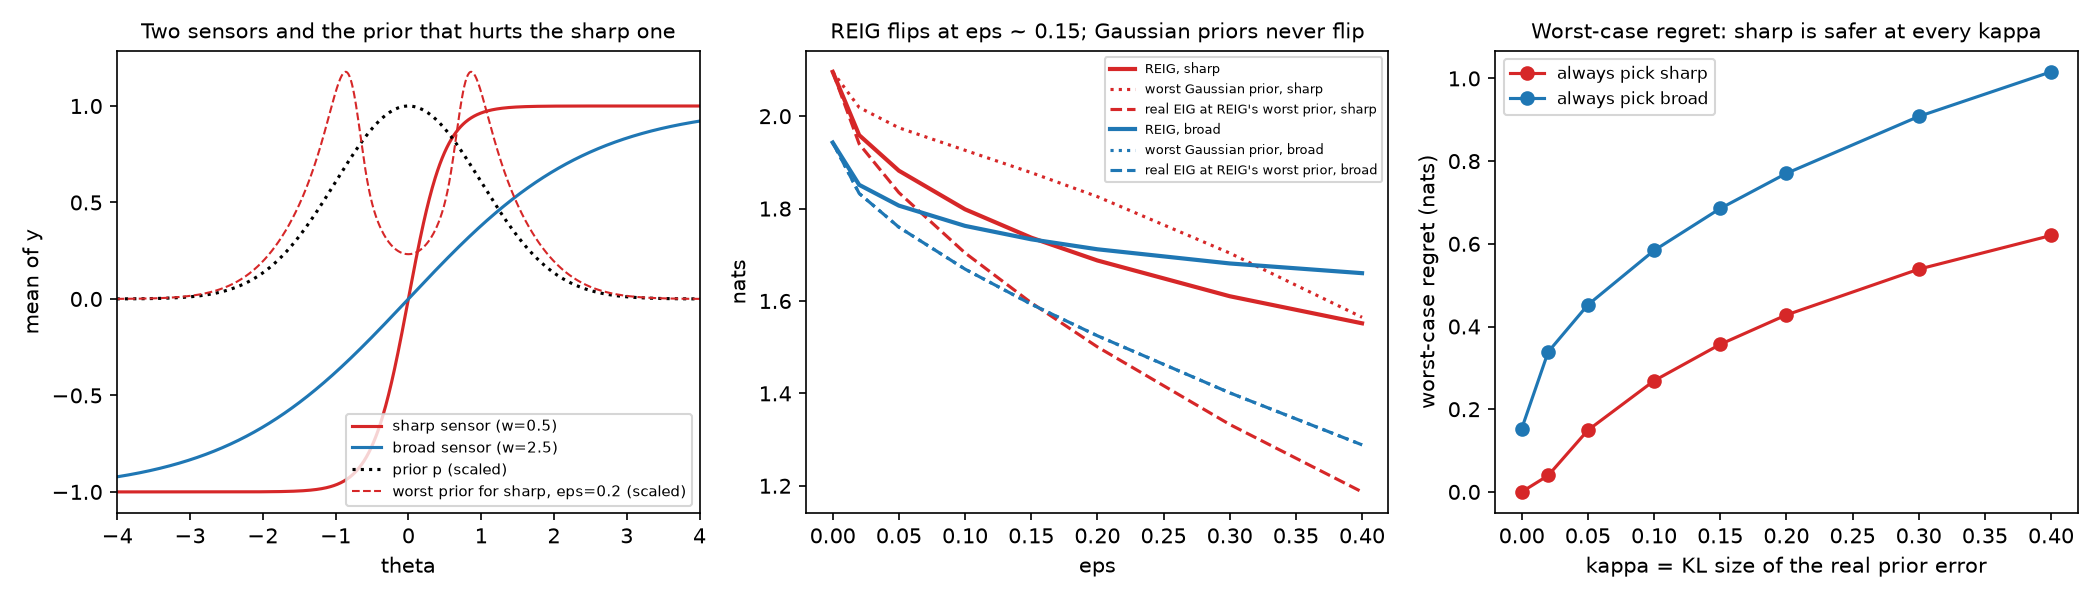
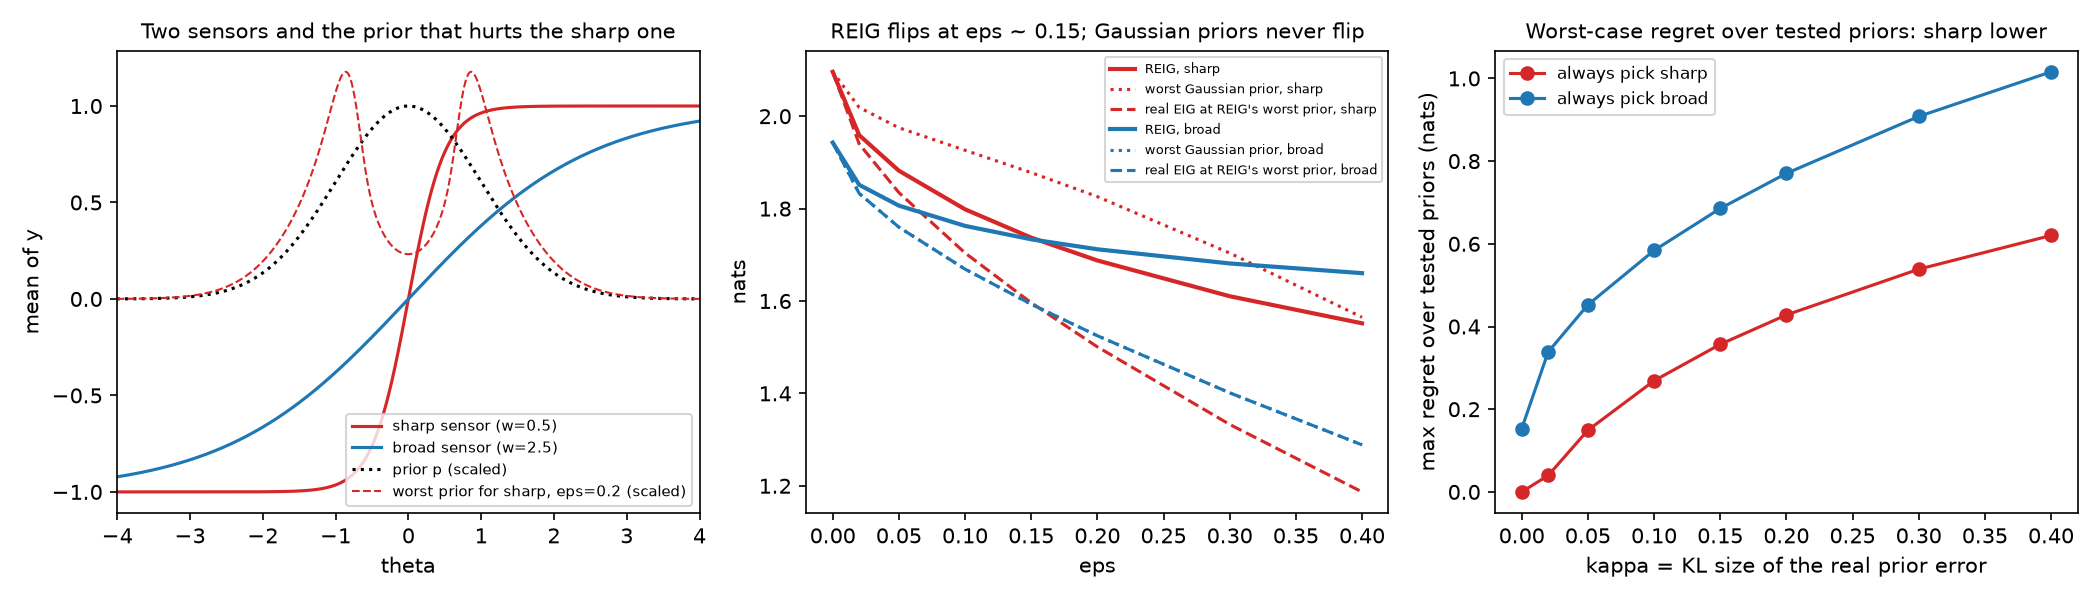
Second review fixes: shared crossing rule, scoped claims, true-worst-case intervals

Changed region(s): [[0.7119, 0.03, 0.9905, 0.09]]

diff --git a/docs/index.html b/docs/index.html
@@ -150,6 +150,10 @@ radius.</p>
       one explanation of a result ("the smallest estimate is the noisiest") was not supported. Both were fixed.</li>
   <li><strong>A refactoring bug.</strong> A sign error appeared only at $\varepsilon=0$. We caught it because a baseline
       error jumped from 0.04 to 1.18 between runs.</li>
+  <li><strong>Claims wider than the evidence.</strong> A second review pointed out that our regret result covered only the
+      priors we tested, that a "bound check" did not by itself establish the true worst case, that "right sensor" in one
+      experiment meant "best under the nominal prior", and that two experiments used different fallback rules for the
+      same method. All four were fixed, and the same review suggested the interval bracketing in Section 5.4.</li>
   <li><strong>A misleading figure.</strong> A plot title claimed "the safer choice depends on $\kappa$." The numbers
       showed the opposite, so the title was changed.</li>
 </ul>
@@ -187,18 +191,35 @@ exactly the curvature term it approximates away.</p>
 (dashed) for each test.</figcaption></figure>
 
 <h3>5.4 ...but it can also catch a danger simple checks miss</h3>
-<p>With the sharp and broad sensors, plain EIG prefers sharp (2.10 vs 1.94 nats). REIG switches to broad at about
-$\varepsilon\approx 0.15$&ndash;$0.2$. If we only consider Gaussian priors (a wrong prior mean or variance), sharp stays
-best at every radius. But REIG's own worst-case prior for the sharp sensor is two-humped, not Gaussian. Evaluating the
-<em>real</em> EIG there, the preference flips between $\varepsilon=0.1$ and $0.2$, in line with REIG.</p>
+<p>With the sharp and broad sensors, plain EIG prefers sharp (2.10 vs 1.94 nats). REIG switches to broad between
+$\varepsilon=0.15$ and $0.2$. If we only consider Gaussian priors (a wrong prior mean or variance), sharp stays best
+at every radius. But REIG's own worst-case prior for the sharp sensor is two-humped, not Gaussian, and it hurts the
+sharp sensor much more.</p>
 
-<p>There is a twist. If we measure robustness by worst-case <em>regret</em> (how much worse than the best sensor we could
-do) instead of worst-case EIG, sharp is the safer choice at every radius we tried. REIG answers the max-min question,
-and that is not the only reasonable notion of "robust." (Regret was checked over Gaussian priors plus the two REIG
-worst-case priors, not over the whole ball.)</p>
+<p>We can do better than compare criteria: we can bracket the <em>true</em> worst case. The paper's bound
+$|I_\varepsilon - I^{\text{true}}_\varepsilon|\le\varepsilon$ gives a lower end, and the real EIG at any prior we tested
+gives an upper end. These intervals are tight, and they settle which sensor has the better true worst case at every
+radius we checked except one:</p>
+
+<table>
+<tr><th>$\varepsilon$</th><th>sharp: true worst case in</th><th>broad: true worst case in</th><th>better worst case</th></tr>
+<tr><td>0.05</td><td>[1.832, 1.835]</td><td>[1.756, 1.760]</td><td>sharp</td></tr>
+<tr><td>0.10</td><td>[1.698, 1.704]</td><td>[1.663, 1.669]</td><td>sharp</td></tr>
+<tr><td>0.15</td><td>[1.587, 1.596]</td><td>[1.584, 1.593]</td><td>undecided (overlap)</td></tr>
+<tr><td>0.20</td><td>[1.488, 1.501]</td><td>[1.512, 1.525]</td><td>broad</td></tr>
+<tr><td>0.30</td><td>[1.310, 1.333]</td><td>[1.381, 1.401]</td><td>broad</td></tr>
+</table>
+
+<p>So, within the accuracy of our grid, REIG's switch is correct: the true worst-case preference really does flip
+between $\varepsilon=0.1$ and $0.2$. A check using only Gaussian priors would have missed this.</p>
+
+<p>There is a twist. If we measure robustness by <em>regret</em> (how much worse than the best sensor we could do)
+instead of worst-case EIG, sharp had the lower maximum regret at every radius. This is only over the priors we
+tested (Gaussian priors plus the two REIG worst-case priors), not a worst case over the whole ball. Still, it shows
+that REIG answers the max-min question, and that is not the only reasonable notion of "robust."</p>
 <figure><img src="figures/05_competing_designs.png" alt="Sharp vs broad sensor">
 <figcaption>Left: the two sensors, the prior, and REIG's worst-case prior for the sharp sensor at $\varepsilon=0.2$.
-Middle: REIG, worst Gaussian prior, and real EIG at REIG's worst prior. Right: worst-case regret.</figcaption></figure>
+Middle: REIG, worst Gaussian prior, and real EIG at REIG's worst prior. Right: largest regret over the priors we tested.</figcaption></figure>
 
 <h3>5.5 A data-driven radius</h3>
 <p>On the linear-Gaussian model with a small inner budget ($M=10$), the crossing rule had an error (RMSE) of 0.061 nats,
@@ -207,16 +228,17 @@ $\varepsilon^*$ was small (0 to 0.074) and grew with the strength of the design.
 <figure><img src="figures/04_eps_calibration.png" alt="Crossing rule">
 <figcaption>Left: EIG estimates with $M=10$. Right: the radius $\varepsilon^*$ chosen by the crossing rule.</figcaption></figure>
 
-<p id="exp06">On the sensor model we asked a practical question: with noisy estimates, which method picks the sensor
-with the higher EIG? With 100 seeds per budget, the crossing rule's estimates were nearly unbiased from $M=20$ on
+<p id="exp06">On the sensor model we also asked a narrower question: with noisy estimates, which method picks the
+sensor with the higher EIG <em>under the reference prior</em>? This tests estimation accuracy, not protection
+against a wrong prior. The crossing rule never sees the exact answer when it chooses $\varepsilon$. With 100 seeds per budget, the crossing rule's estimates were nearly unbiased from $M=20$ on
 (errors of 0.01 nats or less), and it picked correctly most often at $M=20$ (88% vs 75% for NMC and 85% for the
 contrastive estimator). From $M=100$ on, almost every method picks correctly. At the tiniest budget ($M=5$) the
 crossing rule did <em>worse</em> than NMC (58% vs 78%). NMC's bias there is enormous (+17.5 nats for the sharp
 sensor), but it happens to favor the sharp sensor, so NMC picks correctly for the wrong reason. An accurate estimate
 and a correct ranking are not the same thing.</p>
 <figure><img src="figures/06_noisy_design_choice.png" alt="Picking the right sensor from noisy estimates">
-<figcaption>Fraction of runs (100 seeds per budget) in which each method picks the sharp sensor, which has the higher
-EIG under the reference prior. "REIG $\varepsilon=0.2$" picking broad is not an error in the robust sense, since at
+<figcaption>Fraction of runs (100 seeds per budget) in which each method picks the sharp sensor, the nominal best (higher EIG
+under the reference prior). "REIG $\varepsilon=0.2$" picking broad is not an error in the robust sense, since at
 that radius the robust choice is broad.</figcaption></figure>
 
 <!-- ============================================================ -->
@@ -229,8 +251,10 @@ that radius the robust choice is broad.</figcaption></figure>
       far too aggressive for a noisy estimator.</li>
   <li><strong>The tangent approximation cuts both ways.</strong> It can hide sensitivity completely (two-test example),
       and it can also reveal non-Gaussian worst cases that a "wrong mean or variance" check misses (sensor example).</li>
-  <li><strong>"Robust" needs a definition.</strong> Maximizing the worst-case EIG and minimizing worst-case regret chose
-      different sensors in the same problem.</li>
+  <li><strong>REIG's switch can be verified.</strong> Bracketing the true worst case with the paper's bound gave
+      intervals tight enough to confirm REIG's design choice at every radius but one.</li>
+  <li><strong>"Robust" needs a definition.</strong> Maximizing the worst-case EIG and minimizing regret (over the priors
+      we tested) chose different sensors in the same problem.</li>
   <li><strong>Pairing an over- and under-estimator gives a usable radius.</strong> The crossing rule gave the
       most accurate EIG estimates we tried on our toy problems, which supports the paper's suggestion. A more accurate
       estimate did not always mean a better design choice, though (Section 5.5, $M=5$).</li>
@@ -240,7 +264,7 @@ that radius the robust choice is broad.</figcaption></figure>
 <ul>
   <li>All models are small and one-dimensional in $\theta$. We have not tested the paper's own benchmarks
       (A/B test, preference, pharmacokinetic).</li>
-  <li>The true worst case is only bounded, not computed, in the sensor model.</li>
+  <li>The true worst case is only bracketed, not computed, in the sensor model, and all sensor values rely on a numerical grid.</li>
   <li>The crossing rule has no theory yet, and we only tested it with plain NMC and a simple contrastive estimator.</li>
 </ul>
 

diff --git a/experiments/05_competing_designs.py b/experiments/05_competing_designs.py
@@ -12,8 +12,11 @@ For each eps we compute, per sensor:
 The last two are feasible priors, so min(both) is an upper bound on the true
 worst case I_true. The paper's theory says REIG >= I_true and REIG - I_true <= eps.
 
-Then a decision view: if the real prior is anywhere within KL kappa of p, what is
-the worst-case regret of picking each sensor?
+We also bracket the true worst case: I_true lies in [REIG - eps, min over tested
+priors] (paper eq. 16 for the lower end; feasibility for the upper end).
+
+Then a decision view: the largest regret of each sensor over the priors we TESTED
+at radius kappa (Gaussian ball + two REIG tilts). This is not a global worst case.
 """
 import numpy as np
 import matplotlib.pyplot as plt
@@ -56,11 +59,25 @@ for r in rows:
     pick = lambda a, b: names[int(b > a)]
     print(f"{r[0]:>5} | {pick(r[1], r[5]):>9} | {pick(r[2], r[6]):>16} | {pick(r[4], r[8]):>16} |"
           f" {r[1]:.3f}/{r[5]:.3f} | {r[4]:.3f}/{r[8]:.3f}")
-print("REIG >= worst bound - eps check:",
+print("REIG - (min over tested priors) <= eps:",
       all(bool(np.all(rows[:, 1 + 4 * j] - rows[:, 4 + 4 * j] <= rows[:, 0] + 1e-6)) for j in range(2)))
-print("REIG >= worst bound check:          ",
+print("REIG >= (min over tested priors):      ",
       all(bool(np.all(rows[:, 1 + 4 * j] >= rows[:, 4 + 4 * j] - 1e-6)) for j in range(2)))
-print("\nworst-case regret if the real prior is within KL kappa:")
+# Interval for the TRUE worst case (within grid accuracy):
+#   lower end  REIG - eps            (paper eq. 16: |REIG - I_true| <= eps)
+#   upper end  min over tested priors (each tested prior is feasible)
+print("\ninterval for the true worst-case EIG, [REIG - eps, min over tested priors]:")
+intervals = []
+for r in rows[1:]:
+    e = r[0]
+    s_lo, s_hi = r[1] - e, r[4]
+    b_lo, b_hi = r[5] - e, r[8]
+    verdict = "broad" if b_lo > s_hi else "sharp" if s_lo > b_hi else "overlap"
+    intervals.append([e, s_lo, s_hi, b_lo, b_hi])
+    print(f"  eps={e:<5} sharp [{s_lo:.3f}, {s_hi:.3f}]  broad [{b_lo:.3f}, {b_hi:.3f}]  -> {verdict}")
+np.savetxt(f"{RESULTS}/05_true_worst_intervals.csv", np.array(intervals), delimiter=",", comments="",
+           header="eps,sharp_lower,sharp_upper,broad_lower,broad_upper")
+print("\nworst-case regret over the TESTED priors (Gaussian ball + two REIG tilts), radius kappa:")
 for r in regret:
     print(f"  kappa={r[0]:<5} sharp={r[1]:.3f}  broad={r[2]:.3f}  -> safer: {names[int(r[2] < r[1])]}")
 
@@ -82,6 +99,6 @@ axes[1].set_xlabel("eps"); axes[1].set_ylabel("nats"); axes[1].legend(fontsize=6
 axes[1].set_title("REIG flips at eps ~ 0.15; Gaussian priors never flip", fontsize=10)
 axes[2].plot(regret[:, 0], regret[:, 1], "C3o-", label="always pick sharp")
 axes[2].plot(regret[:, 0], regret[:, 2], "C0o-", label="always pick broad")
-axes[2].set_xlabel("kappa = KL size of the real prior error"); axes[2].set_ylabel("worst-case regret (nats)")
-axes[2].set_title("Worst-case regret: sharp is safer at every kappa", fontsize=10); axes[2].legend(fontsize=8)
+axes[2].set_xlabel("kappa = KL size of the real prior error"); axes[2].set_ylabel("max regret over tested priors (nats)")
+axes[2].set_title("Worst-case regret over tested priors: sharp lower", fontsize=10); axes[2].legend(fontsize=8)
 plt.tight_layout(); plt.savefig(f"{RESULTS}/05_competing_designs.png", dpi=150)

diff --git a/experiments/06_noisy_design_choice.py b/experiments/06_noisy_design_choice.py
@@ -1,4 +1,8 @@
-"""Exp 06 - Does eps help pick the right sensor when EIG is estimated by sampling?
+"""Exp 06 - With noisy EIG estimates, how often does each method pick the NOMINAL-best sensor?
+
+This tests ESTIMATION accuracy under the reference prior, not protection against a
+misspecified prior. "Correct" = higher EIG under p (sharp). The crossing rule never
+sees the exact answer when choosing eps.
 
 Same sensor model as Exp 05. Under the reference prior the sharp sensor is the
 right choice (EIG 2.096 vs 1.943). With a small inner budget M, nested MC is
@@ -13,25 +17,13 @@ import numpy as np
 import matplotlib.pyplot as plt
 from _common import RESULTS
 import src.sensors as S
-from src.eig import reig_dual, reig_max_dual
+from src.eig import reig_dual, reig_max_dual, crossing_estimate
 
 names = list(S.SENSORS)
 truth = {k: S.eig(k) for k in names}
 Ms, REPS, N1, N2 = [5, 20, 100, 500], 100, 1000, 5
 
 
-def crossing(d_up, d_lo, hi=2.0, iters=40):
-    f = lambda e: reig_dual(d_up, e)[0] - reig_max_dual(d_lo, e)[0]
-    if f(0.0) <= 0:
-        return 0.0, 0.5 * (d_up.mean() + d_lo.mean())
-    if f(hi) > 0:
-        return hi, 0.5 * (reig_dual(d_up, hi)[0] + reig_max_dual(d_lo, hi)[0])
-    lo_e, hi_e = 0.0, hi
-    for _ in range(iters):
-        mid = 0.5 * (lo_e + hi_e)
-        lo_e, hi_e = (mid, hi_e) if f(mid) > 0 else (lo_e, mid)
-    e = 0.5 * (lo_e + hi_e)
-    return e, 0.5 * (reig_dual(d_up, e)[0] + reig_max_dual(d_lo, e)[0])
 
 
 methods = ["NMC", "contrastive", "average", "crossing", "REIG eps=0.05", "REIG eps=0.2"]
@@ -43,7 +35,7 @@ for m in Ms:
             seed = 100_000 * m + 1000 * r + j
             du = S.d_samples(k, n1=N1, n2=N2, m=m, rng=seed)
             dl = S.d_samples(k, n1=N1, n2=N2, m=m, contrastive=True, rng=seed)
-            est[k] = [du.mean(), dl.mean(), 0.5 * (du.mean() + dl.mean()), crossing(du, dl)[1],
+            est[k] = [du.mean(), dl.mean(), 0.5 * (du.mean() + dl.mean()), crossing_estimate(du, dl)[1],
                       reig_dual(du, 0.05)[0], reig_dual(du, 0.2)[0]]
         for i, meth in enumerate(methods):
             s, b = est["sharp"][i], est["broad"][i]
@@ -67,6 +59,6 @@ fig, ax = plt.subplots(figsize=(7, 4))
 for i, (meth, st) in enumerate(zip(methods, ["v--", "^--", "s:", "o-", "x-.", "d-."])):
     ax.plot(Ms, summary[:, i], st, label=meth)
 ax.set_xscale("log"); ax.set_ylim(-0.05, 1.05)
-ax.set_xlabel("inner samples M (log scale)"); ax.set_ylabel("fraction of runs picking sharp (correct)")
-ax.set_title("Picking the right sensor from noisy EIG estimates", fontsize=10)
+ax.set_xlabel("inner samples M (log scale)"); ax.set_ylabel("fraction picking sharp (nominal-best)")
+ax.set_title("Picking the nominal-best sensor from noisy EIG estimates", fontsize=10)
 ax.legend(fontsize=7); plt.tight_layout(); plt.savefig(f"{RESULTS}/06_noisy_design_choice.png", dpi=150)

diff --git a/experiments/04_eps_calibration.py b/experiments/04_eps_calibration.py
@@ -12,24 +12,12 @@ average, with a small inner budget (M = 10) where the biases are large.
 import numpy as np
 import matplotlib.pyplot as plt
 from _common import RESULTS
-from src.eig import eig_closed_form, d_samples_nmc, reig_dual, reig_max_dual
+from src.eig import eig_closed_form, d_samples_nmc, reig_dual, reig_max_dual, crossing_estimate
 
 xs = np.linspace(0.25, 3.0, 12)
 M, N1, N2, REPS = 10, 500, 10, 10
 
 
-def crossing(d_up, d_lo, hi=2.0, iters=40):
-    f = lambda e: reig_dual(d_up, e)[0] - reig_max_dual(d_lo, e)[0]
-    if f(0.0) <= 0:
-        return 0.0, d_up.mean()
-    if f(hi) > 0:
-        return hi, 0.5 * (reig_dual(d_up, hi)[0] + reig_max_dual(d_lo, hi)[0])
-    lo_e, hi_e = 0.0, hi
-    for _ in range(iters):
-        mid = 0.5 * (lo_e + hi_e)
-        lo_e, hi_e = (mid, hi_e) if f(mid) > 0 else (lo_e, mid)
-    e = 0.5 * (lo_e + hi_e)
-    return e, 0.5 * (reig_dual(d_up, e)[0] + reig_max_dual(d_lo, e)[0])
 
 
 rows = []
@@ -39,7 +27,7 @@ for i, x in enumerate(xs):
         seed = 1000 * i + r
         _, d_up = d_samples_nmc(x, n1=N1, n2=N2, m=M, rng=seed)
         _, d_lo = d_samples_nmc(x, n1=N1, n2=N2, m=M, contrastive=True, rng=seed)
-        e_star, est = crossing(d_up, d_lo)
+        e_star, est = crossing_estimate(d_up, d_lo)
         rows.append([x, r, truth, d_up.mean(), d_lo.mean(),
                      0.5 * (d_up.mean() + d_lo.mean()), est, e_star])
 rows = np.array(rows)

diff --git a/src/eig.py b/src/eig.py
@@ -142,3 +142,29 @@ def reig_max_dual(d, eps):
         return d.mean(), np.inf
     val, lam = _dual(d, eps, +1.0)
     return max(min(val, d.max()), d.mean()), lam
+
+
+def crossing_estimate(d_up, d_lo, hi=2.0, iters=40):
+    """Crossing rule (exploratory, our own; not from the paper).
+
+    d_up: per-theta samples from an UPPER-biased estimator (e.g. plain NMC)
+    d_lo: per-theta samples from a LOWER-biased estimator (e.g. contrastive)
+    As eps grows, REIG(d_up, eps) falls and REIG-max(d_lo, eps) rises.
+    Pick eps* where they meet and return (eps*, common value).
+    Fallbacks, shared by every experiment:
+      - curves already crossed at eps = 0 (mean(d_up) <= mean(d_lo)): eps* = 0,
+        estimate = average of the two means
+      - no crossing by eps = hi: eps* = hi, estimate = midpoint of the two curves
+    """
+    d_up, d_lo = np.asarray(d_up, float), np.asarray(d_lo, float)
+    f = lambda e: reig_dual(d_up, e)[0] - reig_max_dual(d_lo, e)[0]
+    if f(0.0) <= 0:
+        return 0.0, 0.5 * (d_up.mean() + d_lo.mean())
+    if f(hi) > 0:
+        return hi, 0.5 * (reig_dual(d_up, hi)[0] + reig_max_dual(d_lo, hi)[0])
+    lo_e, hi_e = 0.0, hi
+    for _ in range(iters):
+        mid = 0.5 * (lo_e + hi_e)
+        lo_e, hi_e = (mid, hi_e) if f(mid) > 0 else (lo_e, mid)
+    e = 0.5 * (lo_e + hi_e)
+    return e, 0.5 * (reig_dual(d_up, e)[0] + reig_max_dual(d_lo, e)[0])

diff --git a/SLIDES_OUTLINE.md b/SLIDES_OUTLINE.md
@@ -43,6 +43,7 @@ Rough timing: about 1-1.5 min per slide, 13 slides. Figures are in `results/`.
 - Overclaiming caught by a second AI
 - A sign bug caught by a jump in a baseline number (0.04 -> 1.18)
 - A misleading plot title the numbers did not support
+- A second review narrowed four claims to what the evidence supports
 - Figure: `00_baseline.png` (right panel shows the wrong version)
 
 ## Part 3 - Results (about 6 min)
@@ -60,13 +61,15 @@ Rough timing: about 1-1.5 min per slide, 13 slides. Figures are in `results/`.
 **10. ...and it can catch a danger simple checks miss**
 - Sharp vs broad sensor; REIG flips at eps ~ 0.15-0.2
 - Gaussian-only checks never flip; REIG's own worst prior is two-humped
-- Twist: by worst-case regret, sharp is always safer
+- Bracketing the TRUE worst case ([REIG - eps, min over tested priors]) confirms the flip:
+  sharp better up to eps = 0.1, broad from eps = 0.2 (0.15 undecided)
+- Twist: by regret over the priors we tested, sharp is always lower
 - Figure: `05_competing_designs.png`
 
 **11. A data-driven radius**
 - Crossing rule: REIG of NMC meets REIG-max of contrastive
 - RMSE 0.061 vs 0.099-0.246 for the alternatives (linear-Gaussian, M = 10)
-- Sensor model (100 seeds): crossing rule nearly unbiased from M = 20, best pick rate at M = 20 (88% vs 75% NMC)
+- Sensor model (100 seeds), picking the NOMINAL-best sensor (estimation accuracy, not robustness): crossing rule nearly unbiased from M = 20, best pick rate at M = 20 (88% vs 75% NMC)
 - Honest caveat: at M = 5 it picks worse than NMC (58% vs 78%); NMC is right for the wrong reason
 - Figures: `04_eps_calibration.png`, `06_noisy_design_choice.png`
 

diff --git a/ai_log/2026-11-19_second_review.md b/ai_log/2026-11-19_second_review.md
@@ -1,0 +1,26 @@
+# AI session - 2026-11-19 (evening) - Ben (second AI reviewer, Claude fixes)
+
+**Tools / models:** a second AI model re-ran Exp 04-06 in a temporary folder and
+reviewed the claims; Claude made the fixes.
+
+**Verified by the reviewer:** Exp 04, 05 and 06 reproduce the saved CSVs exactly.
+Crossing-rule RMSE 0.0606; REIG switches between eps 0.15 and 0.2; the sharp
+sensor's tilted prior is two-humped; Exp 06 numbers match.
+
+**Corrections requested, all accepted:**
+1. Exp 06 measures picking the NOMINAL-best sensor (estimation accuracy under p),
+   not protection against a wrong prior. Wording fixed in script, plot, blog, outline.
+2. The regret result covers only the priors we tested (Gaussian ball + two tilts).
+   Plot title and blog no longer call it a global worst case.
+3. The Exp 05 "bound check" label was wrong: it checks REIG - (min over tested
+   priors) <= eps, which alone does not establish the true worst case. Relabelled.
+4. Exp 04 and Exp 06 had separate crossing-rule copies with different fallbacks when
+   the curves are already crossed at eps = 0. Now one shared function,
+   `src/eig.py: crossing_estimate` (fallback: average of the two means).
+   Exp 04 results unchanged after the switch.
+
+**New result suggested by the reviewer:** bracket the true worst case as
+[REIG - eps, min over tested priors] (paper eq. 16 + feasibility). Computed for all eps:
+sharp better at eps 0.02-0.1, overlap at 0.15, broad better at 0.2-0.4. So REIG's
+switch is confirmed for the true worst case, within grid accuracy.
+Saved in `results/05_true_worst_intervals.csv`.
